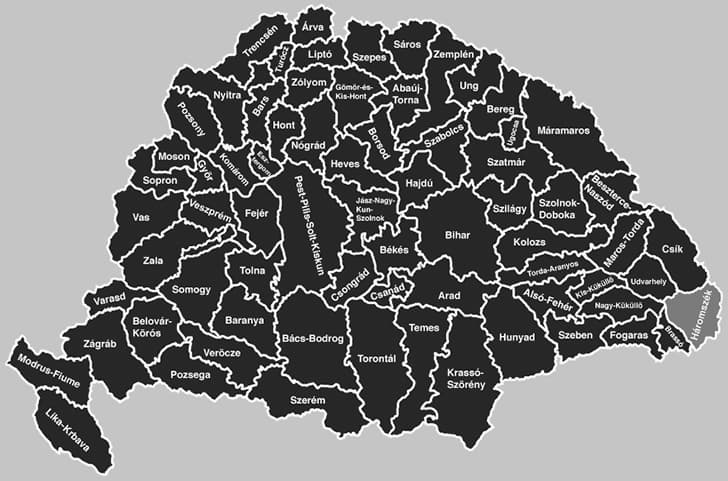
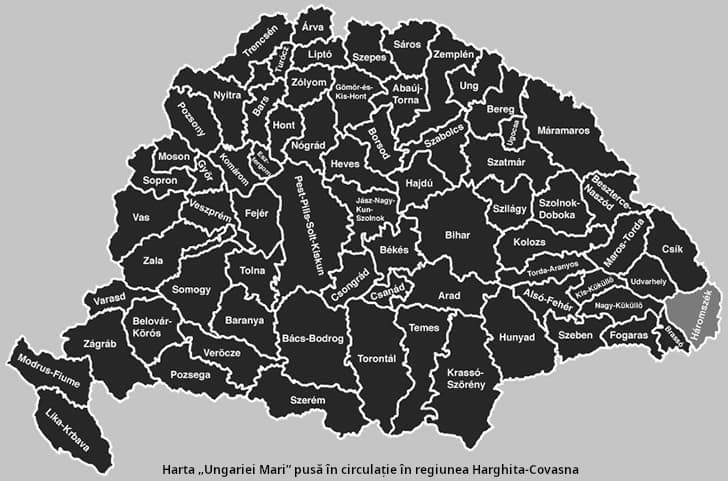
add AXA-II 27

Changed region(s): [[0.2115, 0.9667, 0.8159, 0.9979]]

diff --git a/content/posts/magazine/axa-ii/28/traduceri-din-presa-maghiara-revista-presei-maghiare/index.html b/content/posts/magazine/axa-ii/28/traduceri-din-presa-maghiara-revista-presei-maghiare/index.html
@@ -1,0 +1,89 @@
+---
+title: Traduceri din presa de limbă maghiară din România. Revista presei maghiare Nr. 19/01.10.2009 – 15.10.2009
+date: 2009-11-01T01:00:00Z
+year: 2009
+month: 2009-10
+authors:
+  - centrul-european-de-studii-covasna-harghita
+series:
+  - AXA ANUL II
+#  - Axa 28
+categories:
+  - Revista presei maghiare
+tags:
+images:
+  - "images/0.jpg"
+featured: false
+pinned: false
+final: true
+---
+<h2>Haromszek, nr. 794 din 01.10.2009<br>
+Szekeres Attila<br>
+Las să fluture</h2>
+<p>Cât de mărinimos este prefectul nostru, pe care îl deranjează drapelul secuiesc: 596 deocamdată, nu trece la aplicarea de sancțiuni. Însă dacă nu va merge cu vorba bună, va fi obligat să treacă la sancțiuni. Cu alte cuvinte, să-i amendeze pe primarii care au arborat pe primăriile lor drapelul. Codrin Munteanu a învățat de la predecesori marcanți, precum Horia Grama sau răposatul Adrian Cășunean-Vlad, care și ei erau deranjați de simbolurile naționale și aplicau amenzi. Potrivit hotărârii de guvern care reglementează utilizarea simbolurilor, la intrarea în instituțiile publice trebuie amplasată stema țării. flancată de două drapele românești. Prin invocarea acestui articol a fost amendat fostul primar al municipiului Sfântu Gheorghe, Albert Almos. Același articol îl flutură acum Munteanu, spunând că este vorba exclusiv de drapelul românesc, ca atare un oarecare drapel secuiesc nu are ce căuta pe instituție.</p>
+<p>În acest punct, le-am atrage atenția primarilor asupra faptului că următorul alineat din norma juridică prevede că unitățile administrative care dispun de steme, le pot amplasa pe frontispiciul sediului, în stânga stemei țării. Să profităm, așadar, de posibilitatea dată de lege și să ne utilizăm simbolurile! Cei care dispun de stemă aprobate prin hotărâre de guvern, să și-o graveze pe ștampilă și să înlocuiască stema statului român cu propria-i stemă pentru că și aceasta este o posibilitate conferită de lege și, totodată, primul semn al auto-determinării.</p>
+<p>Norma sus-amintită mai prevede în următorul alineat: în cazul în care în aceeași clădire își au sediul mai multe instituții, drapele trebuie arborate numai la intrarea principală. Ca atare, acolo unde în aceeași clădire funcționează și primăria, și casa de cultură, de pe aceasta din urmă pot fi demontate liniștit însemnele statului, ba mai mult, potrivit logicii prefectului, ele trebuie demontate. Să vedem ce va avea de spus!</p>
+<p>Orice ar prevede legea, să nu ne lezăm reciproc simbolurile, pentru că acest lucru atinge coarda sensibilă a membrilor comunității. Iar în cazul în care utilizarea simbolurilor nu va fi dusă la extrem - prin vopsirea tomberoanelor și a băncilor pe care ne așezăm posterioarele -, să ne respectăm reciproc simbolurile naționale.</p>
+
+<h2>Haromszek, nr. 5794 din 01.10.2009<br>
+Fekete Reka<br>
+Învățători secui în Moldova<br>
+Mai sunt multe lucruri de făcut în satele ceangăiești</h2>
+<p>Al patrulea an de învățământ l-am început în localitatea Frumoasa, negândindu-mă la ideea că ar trebui să plec. Nu știu din ce cauză însă consider că activitatea pe care o desfășor în localitatea Coșnea îmi aduce satisfacții - acestea sunt idei exprimate de trei tineri învățători din Sfântu Gheorghe, care de câțiva ani îi învață pe copiii ceangăi din localitățile din Moldova să scrie și să citească în limba maghiară. La începutul celui de-al zecelea an de studiu din cadrul programului de învățământ maghiar din Moldova, le-am adresat câteva întrebări lui Mathe Krisztian, Tamas Tunde și Imre Eva. Cum au ajuns în Moldova, ce oferă și ce primesc în cadrul acelor comunități în care își desfășoară activitatea.</p>
+<p>În 21 de localități din județul Bacău - în 14 școli de stat -, peste 1500 de copii învață să scrie și să citească în limba maghiară. Case ale copiilor funcționează în șase localități. În decursul unui deceniu, în Moldova și-au desfășurat activitatea cel puțin o sută de învățători maghiari, în momentul de față ocupându-se de copiii ceangăi ocupându-se aproximativ 50 de persoane.</p>
+<p>Mathe Krisztina a absolvit secția de pedagogie, limba maghiară, b68 la Cluj Napoca. Predau în acest sat de trei ani, împreună cu Neagu Adrian.</p>
+<p>Nu sunt salvatoarea ceangăilor, ci mai degrabă consider că în localitățile locuite de ceangăi este necesar ca cineva să-i susțină pe oameni - afirmă Tamas Tunde, care predă în județul Bacău de doi ani.</p>
+<p class="fw-bold">Problema limbii materne</p>
+<p>În ceea ce privește limba maternă, nu toată lumea are aceeași opinie. Ceangăii nu spun dacă sunt maghiari sau români sau ce limbă maternă au. Pentru aceștia, importantă este mai degrabă religia catolică. În baza experiențelor acumulate la Frumoasa, Mathe Krisztina afirmă: Întrebați fiind care este limba lor maternă, elevii au declarat în unanimitate că limba lor maternă este româna. I-am întrebat apoi în ce limbă vorbesc mamele lor cu frații mai mici, cu toții au declarat că în limba maghiară. În final, copiii au ajuns la concluzia că limba lor maternă este maghiară, deoarece au început să învețe limba română doar în momentul în care au început să frecventeze grădinița. Predarea limbii maghiare în Coșnea a fost inițiată cu ani în urmă de preotul Salamon Antal, împreună cu soția sa.</p>
+
+<h2>Szekely Ujsag, nr. 41 din 15-21.10.2009<br>
+Ambrus Agnes<br>
+Noua Descălecare Maghiară</h2>
+<p>Szegedi Csanad, europarlamentar Jobbik, și Kohazy Ferenc, cunoscut și sub numele Fanka Deli, au pornit împreună prin țară (n.t. - Ungaria), într-un turneu intitulat: Noua Descălecare Maghiară.</p>
+<p>Acest turneu depășește însă granițele, având în vedere că cei doi au ajuns și pe Pământul Secuiesc, iar pe 10 octombrie, la sediul primăriei din Gheorgheni, s-au întâlnit cu cei interesați. Scopul bine definit al întâlnirii este câștigarea simpatiei tinerilor, însă pe lângă cei 50 de tineri prezenți în sala de ședințe, au participat la întâlnirea de peste două ore și aproximativ 30 de persoane mai în vârstă.</p>
+<p>În fața sediului fostului cinematograf din Gheorgheni, oaspeții au fost întâmpinați de membrii mișcării 64 de comitate (HVIM), care fluturau drapele naționale ungare, secuiești și arpadiene. Garda de onoare din sala de consiliu a fost asigurată din membrii din Miercurea Ciuc ai Secției Secuiești a Gărzii Ungare.</p>
+<p>Manifestarea a fost deschisă de alocuțiunea rostită de Fanka Deli Kohazy Ferenc, care purta un tricou cu inscripția: Pământul Secuiesc nu este România. El a vorbit despre pericolele pe care le reprezintă globalizarea, efectele negative asupra civiizației, și i-a îndemnat pe tinerii prezenți să reflecteze asupra situației. Fanka Deli a subliniat unitatea maghiarimii din Bazinul Carpatic, respectiv importanța solidarizării maghiarilor transilvăneni și a celor din Ungaria ciuntită.</p>
+<p>Szegedi Csanad a pomenit de aspirațiile Jobbik, precizând că Jobbik este aripa politică 5b4 a societății care validează interese maghiare, o formațiune care, în actuala situație istorică, nu trebuie să țină cont de nimeni și de nimic, ci doar de interesele maghiare. Szegedi Csanad a accentuat că, în calitate de europarlamentar Jobbik, și-a asumat reprezentarea intereselor tuturor maghiarilor din Bazinul Carpatic, inclusiv a cauzei autonomiei teritoriale a Pământului Secuiesc. E datoria noastră istorică să vorbim despre autonomia teritorială a maghiarilor de peste hotare, despre tragedia de la Trianon, despre glorioasa preistorie maghiară străveche, despre scrierea noastră runică sau despre constituția Sfintei Coroane. După 1.000 de ani, trebuie să ne ocupăm din nou țara în Bazinul Carpatic, din casă în casă, din stradă în stradă, din localitate în localitate. Noi, noii descălecători maghiari, putem învinge doar prin credință maghiară pură, prin respect față de străbunii noștri, cu voință combativă hotărâtă, prin aprecierea tuturor maghiarilor și cu binecuvântarea Dumnezeului Maghiarilor - a declarat Szegedi. Acesta a anunțat că, în calitate de europarlamentar, își va deschide un birou pe Pământul 5b4 Secuiesc, respectiv la Odorheiu Secuiesc, pentru a cultiva relații mai strânse cu locuitorii din această regiune. Alocuțiunile au fost urmate de un dialog. Borsos Geza, vicepreședintele Consiliului Național Secuiesc (CNS), a menționat că, în Parlamentul European, ar trebui generalizată noțiunea autodeterminării în locul celei de autonomie, având în vedere că este dreptul și sarcina unei comunități ca membrii acesteia să decidă ei înșiși cum doresc să trăiască în viitor, iar în cadrul uniunii este posibilă creșterea numărului statelor fără modificarea teritoriilor. Europarlamentarul Szegedi Csanad a promis că, în viitor, va cultiva relații mai strânse cu Consiliul Național Secuiesc.</p>
+
+<h2>Csiki Hirlap (Harghita), nr. 191 din 01.10.2009<br>
+Județul Harghita și Timiș s-au înțeles să colaboreze</h2>
+<p>Ca și prim pas al programului diaspora inițiat de către Consiliul Județean Harghita, Borboly Csaba, președintele autoguvernării, a semnat ieri la Timișoara o înțelegere de colaborare cu edilii comunității maghiare din localitate. În cadrul întâlnirii care a avut loc în Casa Maghiară din localitate, a participat Halasz Ferenc, președintele UDMR Timiș, precum și numeroși lideri ai instituțiilor reprezentative al interesului maghiar din județul Timiș. Cei prezenți au discutat în baza celor mai valoroase proiecte de programe concrete și practice ale înțelegerii, cu toate că încă în acest an, cele două județe proiectează mai multe programe comune - a informat biroul de presă al Consiliului Județean. În comunicat se scrie în continuare trecerea județelor Covasna și Mureș în programul de aderare, introducerea județelor din Diaspora în relații cu județele înfrățite din Ungaria.</p>
+<p>În data de 23 octombrie, grupul păstrător de tradiții din cadrul Școlii Populare din județul Harghita, Centrul cultural din Lăzarea se pregătește să inaugureze Casa Comunității Maghiare, casa Geml, care a fost renovată. Va prezenta în județul Timiș expoziția intitulată Producția din anul acesta între 14 și 25 decembrie, Consiliul Județean Harghita a invitat la Festivalul Județean al Strugurilor din 17 noiembrie un grup păstrător de tradiții din județul Timiș, respectiv așteaptă reprezentanții organizațiilor de tineret din județul Timiș la Conferința Civică. Partea esențială a programului este formarea relațiilor pe baza unor vizite reciproce între clasele din școlile din Ținutul Secuiesc și Diaspora. Precum se știe, din luna august, Autoguvernarea Județeană Harghita, prin conducerea responsabilului de programe Miklossy Eniko, va porni o grupă de muncă din cadrul programului intitulat Osszetartozunk - de construire a comunității Diaspora), al Consiliului Județean Harghita, în interesul formării relației cu maghiarimea care trăiește dispersat.</p>
+
+<h2>Szekely Ujsag, nr. 39 din 1-7.10.2009<br>
+THOT<br>
+Autonomie, însă ce fel?</h2>
+<p>Pomenirea, tot mai des, a ideii de autonomie, este de o vârstă cu existența minorităților naționale. Minoritățile care doresc să-și soluționeze propriile probleme se ciocnesc de refuzul neînduplecat al statelor autointitulate naționale, care în general consideră autonomia ca fiind prima treaptă a separatismului. Lupta pentru autonomie s-a intensificat în anii 90, Uniunea (n.t. - Europeană) a făcut primul pas în anul 2003, când a adoptat raportul Gross.</p>
+<p>Autonomia este un cuvânt compus, de origine greacă, format din cuvintele eautos (auto) și enomos (lege). Înseamnă decizie autonomă, legislație proprie, independență. Nu este necesar ca autonomia să fie conexată cu problematica minorităților etnice. Într-un stat de drept democratic, acest lucru înseamnă descentralizarea puterii, transferarea unor elemente ale puterii centrale în sfera unităților administrative locale, unde sarcinile cu caracter local, problemele apărute acolo pot fi soluționate în cel mai corespunzător mod.</p>
+
+<p class="fw-bold">Autonomie teritorială</p>
+<p>Cea mai stringentă pentru noi este problema autonomiei teritoriale, pe care am putea-o formula, sintetizând, astfel: Potrivit dreptului internațional, semnificația autonomiei ar putea fi cuprinsă într-un acord prin cate minoritatea să-și poată soluționa, într-un teritoriu anume al statului, propriile-i probleme, în baza autoguvernării, fără înființarea unui nou stat (H-]. Heintze). Ceea ce înseamnă, așadar, că granițele statului rămân neatinse, având loc doar o reorganizare teritorial-administrativă pentru ca autodeterminarea să poată fi exercitată.</p>
+
+<p class="fw-bold">Autonomie a minorităților</p>
+<p>În epoca modernă putem vorbi despre înfăptuirea autonomiei minorităților în momentul în care statul transferă atribuții ale puterii în sfera organizațiilor alese în mod democratic de către membrii minorității. Pornind de la obiectivul păstrării identității, autonomia minorităților presupune validarea următoarelor drepturi:</p>
+<p>
+<ul>
+  <li>dreptul utilizării limbii materne în învățământ, justiție, administrație și viața privată;</li>
+  <li>dreptul înființării propriului sistem de învățământ; dreptul la ocuparea unei funcții publice și la servicii publice;</li>
+  <li>dreptul la patrie; dispunerea în mod liber de bogățiile naturale, respectiv dreptul la reprezentanță politică locală și națională, autodeterminare economică.</li>
+</ul>
+</p>
+
+<p class="fw-bold">O schimbare în Uniune, în problema autonomiei</p>
+<p>Prin autonomia teritorială locală se realizează autoadministrarea unei minorități dintr-o regiune dată. În optica asupra autonomiei s-a produs o schimbare în anul 2003, prin apariția și adoptarea raportului Gross. Meritul raportului parlamentarului elvețian Andreas Gross este acela că nu tratează autonomia ca pe o sursă de conflict ce periclitează suveranitatea unui stat, îi distruge integritatea teritorială ci ca pe un exemplu demn de urmat, o posibilă metodă de soluționare a conflictelor pentru țările care dispun de minorități naționale. Principalul mesaj, principala recomandare a adoptării raportului: autonomia este o soluție care le asigură comunității unei regiuni, minorităților exercitarea drepturilor acestora, păstrarea identității lor naționale și, în același timp, garantează unitatea, suveranitatea și integritatea teritorială a statului.</p>
+
+<h2>Szekely Ujsag, nr. 40 din 8-14.10.2009<br>
+Autonomie, însă ce fel? (2)</h2>
+<p>Obținerea statutului de autonomie este un proces mai îndelungat, fiind rezultatul negocierilor purtate între majoritate și minoritate. Acest proces durează până când puterea centrală înțelege că autonomia nu periclitează nici suveranitatea și nici integritatea teritorială, după cum nici existența altor grupuri etnice. Urmează apoi însărcinarea populației dintr-o regiune cu exercitarea puterii într-o sferă mai extinsă. Următorul pas ar fi stabilirea și distribuirea atribuțiilor, a formelor de conducere, a problemelor economice și a responsabilităților.</p>
+
+<p class="fw-bold">Cadrul juridic al autonomiei</p>
+<p>Autonomia, în diferitele sale forme - culturală sau teritorială -, poate fi înfăptuită și prin adoptarea normelor juridice ale statului, adică prin proceduri judiciare. Autonomia poate fi cuprinsă în constituție doar după înfăptuirea sa și după ce ea devine funcțională. Exemple în acest sens sunt formele de autonomie care funcționează în Spania.</p>
+<p>Și în Moldova vecină există o autonomie realizată într-un mod asemănător, statul, prin legile sale, definind autonomia regiunii Găgăuze drept autonomie teritorială cu statut specific, parte componentă a Moldovei. Legea mai menționează: în cazul în care statutul independent al Republicii Moldova se va modifica, cetățenilor din Găgăuzia trebuie sâ li se asigure dreptul la autodeterminare.</p>
+<p>Un exemplu al consemnării în constituție a drepturilor minorităților care trăiesc pe un teritoriu autonom este Republica Autonomă Crimeea, întemeiată în 1992, înființarea acesteia presupunând modificarea anumitor articole din constituția ucraineană. În concluzie: având în vedere că regiunile autonome modifică structura administrativă a statului, drepturile stabilite trebuie precizate și în constituție.</p>
+
+<p class="fw-bold">Autonomia teritorială</p>
+<p>După cum indică și denumirea, în cazul autonomiei teritoriale, teritoriul populat de minorități dispune de un statut specific. Statul specific poate fi asigurat de constituție și prin legi. În acest caz, comunitatea teritorială beneficiază de o sferă de competențe în autoguvernare, aplicarea acestora find asigurată de un organ de conducere care are ca sarcină adoptarea deciziilor importante, respectiv supravegherea modului de aplicare a acestora. Distribuirea atribuțiilor între guvernul care conduce țara și organul director al autonomiei se realizează după o gamă variată. Minoritatea poate dispune doar de o sferă de atribuții mai restrânsă: de exemplu, aceasta poate adopta decizii doar în anumite probleme de ordin economic. Însă ar fi posibil ca minoritatea să fie însărcinată cu o sferă mai largă în adoptarea deciziilor privind problemele politice, economice și culturale care o vizează.</p>
+<p>Autonomia poate fi întemeiată și fără ca teritoriul autonom să se încadreze în structura administrativ-teritorială a statului. În urma descentralizării, autonomia poate fi înfăptuită și prin asocierea cu statul a minorităților cu drepturi specifice. Desigur, condiția principală este acceptarea de către stat a unei astfel de organizări mai specifice. Există mai multe exemple al autonomiei înfăptuite într-un mod ce diferă de structura administrativ-teritorială a statului, Aici trebuie amintite statuturile obținute de cei din Scoția, Corsica sau Tara Galilor. Aceste autonomii teritoriale sunt entități politice care nu se încadrează în sistemul administrativ obișnuit al țării, dar, în cadrul unui sistem juridic specific adoptat, formează o unitate cu acesta.</p>
+<p>Având în vedere că marcarea autonomiei teritoriale nu se întâmplă din punctul de vedere al locuitorilor ci al regiunii, nu se pune problema cine aparține de autonomie. În cazul marcării teritoriului trebuie avută în vedere garantarea existenței unei populații majoritare în interiorul teritoriului respectiv. În ceea ce privește autonomia teritorială minoritară, trebuie îndeplinite două condiții principale: minoritatea trebuie să locuiască, în măsura posibilităților, pe un teritoriu închis și să reprezinte majoritatea populației existente în regiunea respectivă. Nu se poate realiza demarcarea autonomiei teritoriale într-un mod în care aceasta să cuprindă fiecare membru al minorității și să excludă oricare din membrii majorității. Autonomia teritorială va cuprinde minorități care sunt grupuri aparținătoare națiunii majoritare a statului, cărora le trebuie asigurat un statut special pentru a-și menține identitatea națională și dezvoltarea economică.</p>
+
+
